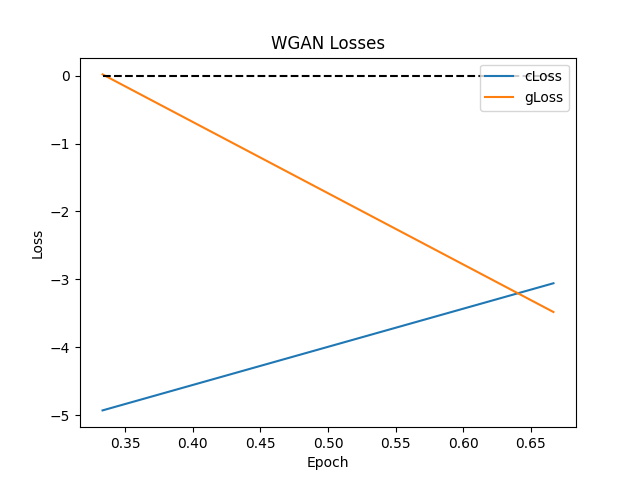
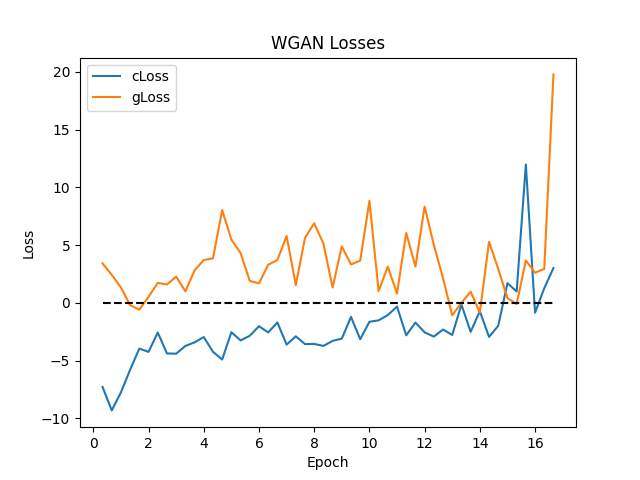
multiInputCritic

diff --git a/src/networks/gans/stateFulGan.py b/src/networks/gans/stateFulGan.py
@@ -29,7 +29,7 @@ NOISE_DIM = 128
 BATCH_SIZE = 32
 STEPS_PER_EPOCH = 2 if gv.DEBUG else 250
 
-NEPOCHS = 2 if gv.DEBUG else 2
+NEPOCHS = 2 if gv.DEBUG else 50
 NPREV_EPOCHS_DONE = 0
 # NPREV_EPOCHS_DONE = NEPOCHS
 
@@ -58,7 +58,8 @@ def get_conv_generator() -> keras.models.Model:
     return model
 
 #can't save output in graph mode during train step. issue for passing context
-#for assigning states, the gradient tape was messed up.
+#for assigning states, the gradient tape was messed up--maybe due to using lstm
+#using lstm even without state gave a huge gradient penalty
 def get_lstm_critic(batchSize=BATCH_SIZE) -> tuple:
     def kernel_regularizer():
         return keras.regularizers.L2(0.01)
@@ -131,50 +132,67 @@ def get_lstm_generator(batchSize=BATCH_SIZE) -> keras.models.Model:
         )
     )(x)
     x = layers.BatchNormalization()(x)
-    time = layers.Conv1D(len(bcNames.ProcessedTime.order), kernel_size=4, padding='causal',
-                         activation=keras.activations.hard_sigmoid)(x)
-    # time = layers.Dense(len(bcNames.ProcessedTime.order), keras.activations.hard_sigmoid)(x)
+    time = layers.Dense(len(bcNames.ProcessedTime.order), keras.activations.hard_sigmoid)(x)
+
+    doyTrig = layers.Conv1D(2, kernel_size=4, padding='causal', activation=keras.activations.hard_sigmoid)(time)
+    timeDayTrig = layers.Conv1D(2, kernel_size=4, padding='causal', activation=keras.activations.hard_sigmoid)(time)
+    timeDif = layers.Conv1D(1, kernel_size=4, padding='causal', activation=keras.activations.sigmoid)(time)
+
     sensors = layers.Conv1D(len(bcNames.allSensors), kernel_size=3, padding='causal',
                          activation=keras.activations.softmax)(x)
     # sensors = layers.Dense(len(bcNames.allSensors), keras.activations.softmax)(x)
 
 
-    x = layers.Concatenate()([time, sensors])
+    timeOut = layers.Concatenate()([timeDif, doyTrig, timeDayTrig])
 
-    model = keras.models.Model(inputs=[inputLayer], outputs=[x], name=LSTM_GENERATOR_NAME)
+    model = keras.models.Model(inputs=[inputLayer], outputs=[timeOut, sensors], name=LSTM_GENERATOR_NAME)
     return model
 
 def get_critic() -> keras.models.Model:
-    #128 X 48
-    # timeInput = keras.Input(
-    #     shape=(CRITIC_TIME_STEPS, len(bcNames.ProcessedTime.order))
-    # )
-    # sensorInput = keras.Input(
-    #     shape=(CRITIC_TIME_STEPS, len(bcNames.allSensors))
-    # )
-
-    inputLayer = keras.Input(
-        shape=(CRITIC_TIME_STEPS, bcNames.nGanFeatures)
+    # 128 time steps
+    timeInput = keras.Input(
+        shape=(CRITIC_TIME_STEPS, len(bcNames.ProcessedTime.order))
     )
-    x = layers.GaussianNoise(.025)(inputLayer)
+    sensorInput = keras.Input(
+        shape=(CRITIC_TIME_STEPS, len(bcNames.allSensors))
+    )
+
+    sensors = layers.GaussianNoise(.025)(sensorInput)
+    x = layers.Concatenate()((timeInput, sensors))
     x = layers.Dense(bcNames.nGanFeatures, defaults.leaky_relu())(x)
 
     padding='causal'
     args = [
         cBlocks.conv_args(nFilters=100, kernelSize=8, strides=4, padding=padding),
         cBlocks.conv_args(nFilters=150, kernelSize=4, padding=padding),
-        cBlocks.conv_args(nFilters=150, kernelSize=4, padding=padding),
-        cBlocks.conv_args(nFilters=160, kernelSize=4, padding=padding),
+        cBlocks.conv_args(nFilters=150, kernelSize=3, padding=padding),
+        cBlocks.conv_args(nFilters=160, kernelSize=3, padding=padding),
+        cBlocks.conv_args(nFilters=160, kernelSize=2, padding=padding),
         ]
     # x = layers.Conv1D(**args[0].kwargs)(x)
     # x = cBlocks.block(x, activation=defaults.leaky_relu(), use_bn=False, use_dropout=True, )
     for arg in args:
         x = layers.Conv1D(**arg.kwargs)(x)
         x = cBlocks.block(x, activation=defaults.leaky_relu(), use_bn=False, use_dropout=True)
+
+    argsTime = [
+        cBlocks.conv_args(nFilters=5, kernelSize=8, strides=4, padding=padding),
+        cBlocks.conv_args(nFilters=10, kernelSize=4, padding=padding),
+        cBlocks.conv_args(nFilters=20, kernelSize=3, padding=padding),
+        cBlocks.conv_args(nFilters=30, kernelSize=3, padding=padding),
+        cBlocks.conv_args(nFilters=30, kernelSize=2, padding=padding),
+    ]
+    timex = layers.Conv1D(**argsTime[0].kwargs)(timeInput)
+    timex = cBlocks.block(timex, activation=defaults.leaky_relu(), use_bn=False, use_dropout=True)
+    for arg in argsTime[1:]:
+        timex = layers.Conv1D(**arg.kwargs)(timex)
+        timex = cBlocks.block(timex, activation=defaults.leaky_relu(), use_bn=False, use_dropout=True)
+
+    x = layers.Concatenate()((timex, x))
     x = layers.Flatten()(x)
     x = layers.Dense(1)(x)
 
-    model = keras.models.Model(inputs=[inputLayer], outputs=[x], name= CRITIC_NAME)
+    model = keras.models.Model(inputs=[timeInput, sensorInput], outputs=[x], name= CRITIC_NAME)
     return model
 
 def get_data_gen(batchSize = BATCH_SIZE):

diff --git a/src/networks/gans/wgan.py b/src/networks/gans/wgan.py
@@ -28,7 +28,7 @@ class wgan(keras.Model):
         generator:keras.Model,
         latentDim,
         batchSize = defaults.BATCH_SIZE,
-        criticExtraSteps=1,
+        criticExtraSteps=2,
         gpWeight=10.0,
     ):
         super(wgan, self).__init__()
